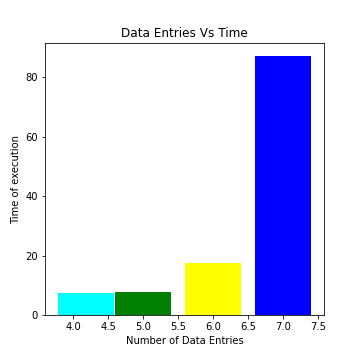
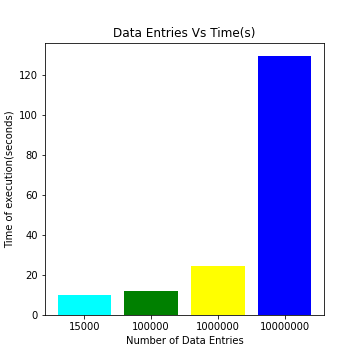
Precicts remove invalid violation and precinct data
This commit removes invalid violation code and precinct data
Updates graph to timing analysis

diff --git a/notebooks/precinct_based_analysis.py b/notebooks/precinct_based_analysis.py
@@ -3,6 +3,7 @@ import matplotlib.pyplot as plt
 
 def violating_precicts(nyc_data, enable_plot=True):
     nyc_precints = nyc_data.select('violation_precinct')\
+                           .filter(col('violation_precinct') != 0)\
                            .groupBy('violation_precinct')\
                            .agg({'violation_precinct':'count'})\
                            .withColumnRenamed("count(violation_precinct)", "no_of_violations")\
@@ -22,6 +23,7 @@ def violating_precicts(nyc_data, enable_plot=True):
 
 def issuing_precincts(nyc_data, enable_plot=True):
     nyc_precints = nyc_data.select('issuer_precinct')\
+                           .filter(col('issuer_precinct') != 0)\
                            .groupBy('issuer_precinct')\
                            .agg({'issuer_precinct':'count'})\
                            .withColumnRenamed("count(issuer_precinct)", "no_of_violations")\
@@ -40,7 +42,9 @@ def issuing_precincts(nyc_data, enable_plot=True):
     return nyc_precints_pd
 
 def violation_code_frequency_top3_precincts(nyc_data, enable_plot=True):
-    top3_precints = nyc_data.select('issuer_precinct')\
+    top3_precints = nyc_data.filter(col('violation_code') != 0)\
+                           .filter(col('issuer_precinct') != 0)\
+                           .select('issuer_precinct')\
                            .groupBy('issuer_precinct')\
                            .agg({'issuer_precinct':'count'})\
                            .sort('count(issuer_precinct)', ascending=False)\
@@ -66,5 +70,6 @@ def violation_code_frequency_top3_precincts(nyc_data, enable_plot=True):
         ax.bar(violations[:10], frequencies[:10])
 
         fig.savefig('../output/violation_code_frequency_top3_precincts.png')
+        print("Top 3 Violating Precicts :", top3)
 
     return violation_frequencies_df.toPandas()
